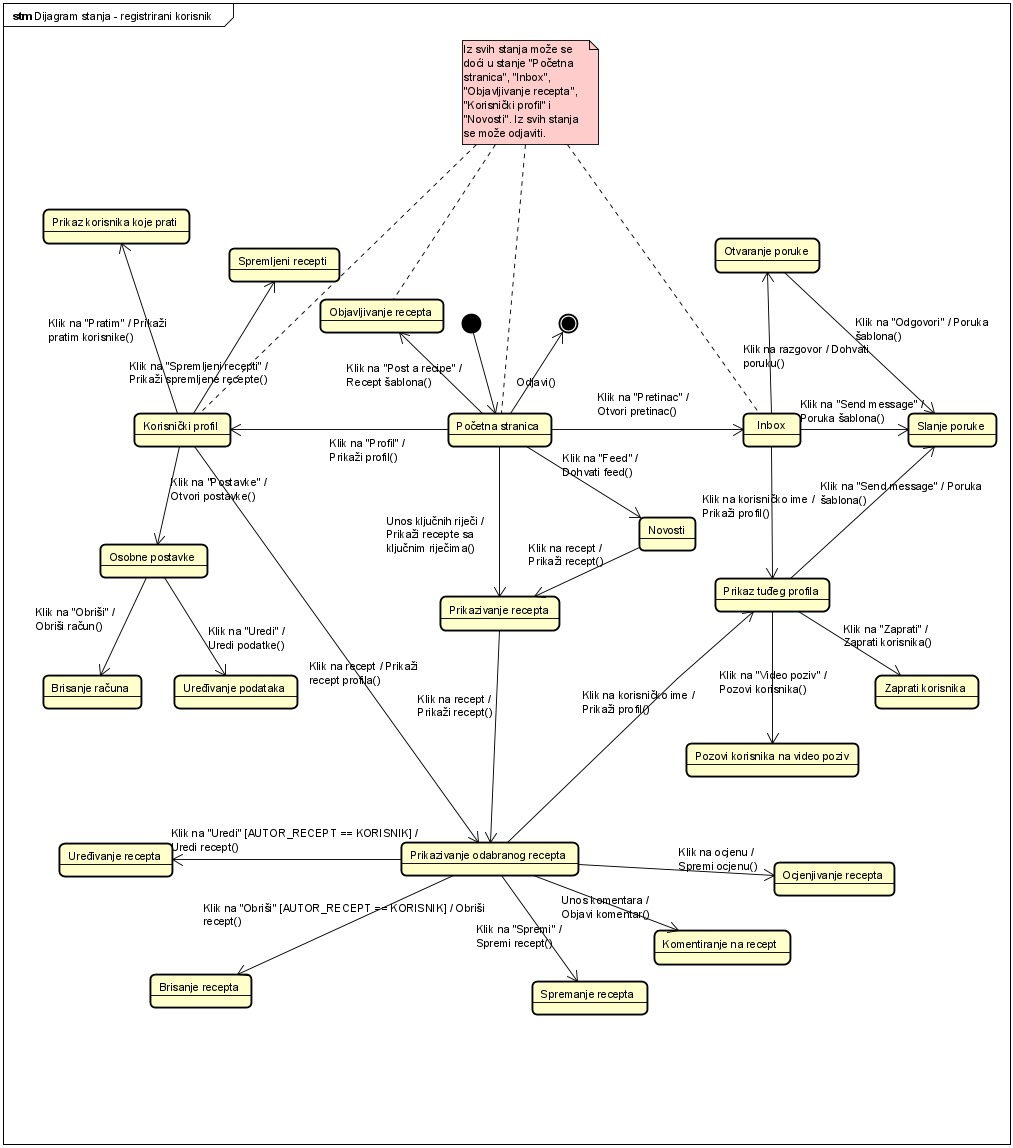
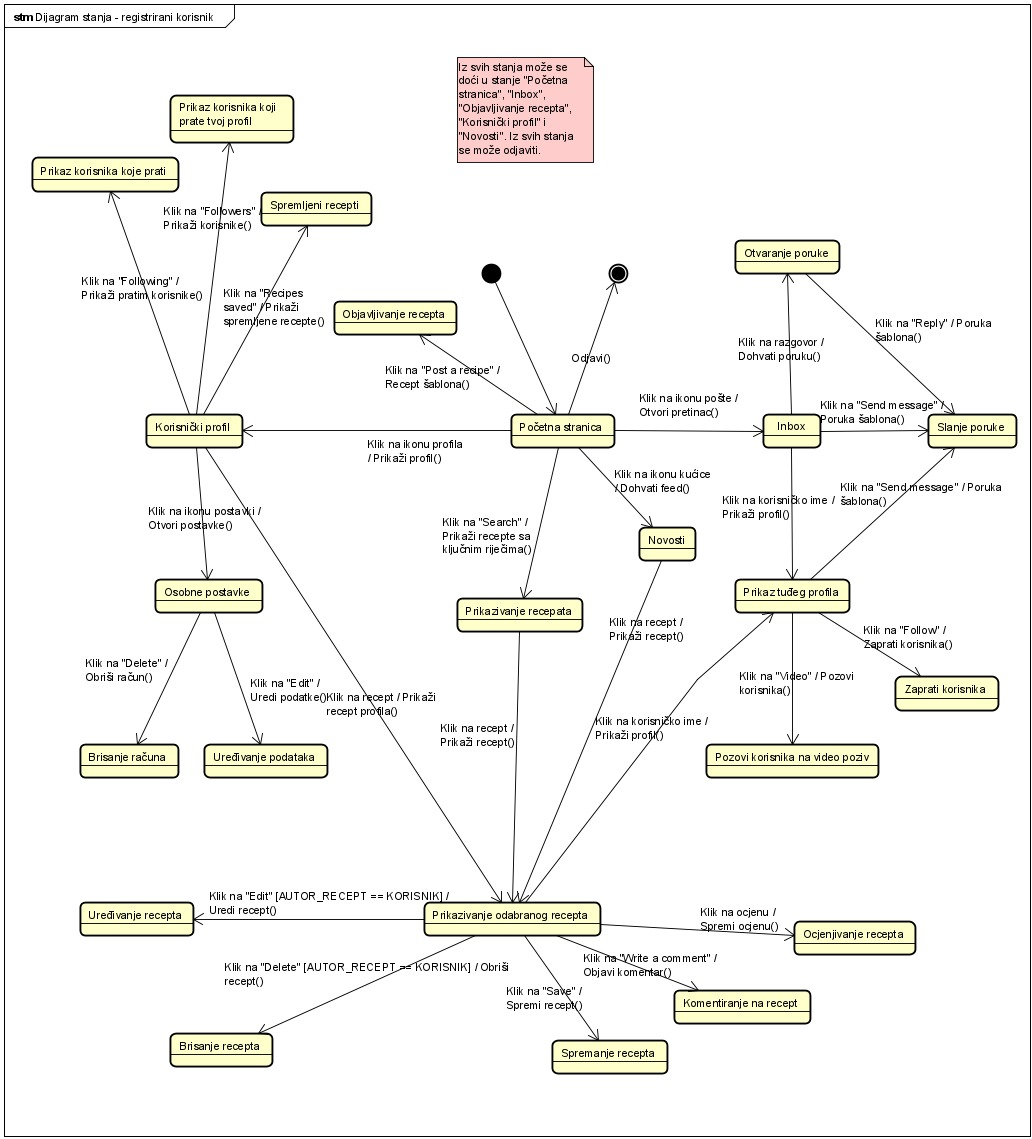
Azuriran dijagram stanja

diff --git a/Dokumentacija/Arhitektura.tex b/Dokumentacija/Arhitektura.tex
@@ -267,7 +267,7 @@
 			% \textbf{\textit{dio 2. revizije}}\\
 			
 			% \textit{Potrebno je priložiti dijagram stanja i opisati ga. Dovoljan je jedan dijagram stanja koji prikazuje \textbf{značajan dio funkcionalnosti} sustava. Na primjer, stanja korisničkog sučelja i tijek korištenja neke ključne funkcionalnosti jesu značajan dio sustava, a registracija i prijava nisu. }
-			Dijagram stanja na slici \ref{fig:Dijagram_stanja} opisuje stanja u kojima se registrirani korisnik može naći i njihove okidače te prijelaze. Nakon uspješne prijave, korisniku se prikazuje početna stranica na kojoj može pretražiti recept pomoću tražilice, pregledati svoj pretinac poruka, pregledati svoj profil, objaviti recept ili pogledati nove recepte koje su objavili korisnici koje prati. Na vlastitom profilu se prikazuju osobni podaci, objavljeni recepti i gumbovi za dodatne mogućnosti. Dodatne funkcionalnosti na stranici profila su opcije za daljnji pregled osobnih postavki, prikaz spremljenih recepata i prikaz korisnika koje prati. Klikom na "Postavke" korisnik može ažurirati svoje podatke ili obrisati svoj račun. Klikom na "Pretinac poruka" prikazuju se izmijenjene poruke. U pretincu se može otvoriti poruka njezinim odabirom te poslati nova poruka, čime se pritiskom gumba otvara šablona za poruku. Odabirom opcije "Objavi recept" otvara se nova stranica na kojoj se nalazi šablona za stvaranje recepta. Upisivanjem ključnih riječi u tražilicu prikaže se stranica s receptima koji se poklapaju s danim opisom. Odabirom recepta otvara se pojedinačna stranica sa samo odabranim receptom. Na stranici pregleda recepta korisnik može ocijeniti, spremiti ili komentirati recept, u slučaju da je korisnik autor prikazanog recepta pojavljuje se opcija uređivanja ili brisanja recepta. Korisnik također može pritisnuti na korisničko ime korisnika koji je objavio recept, time se otvara stranica tuđeg profila. Prikazivanjem tuđeg profila moguće je zapratiti korisnika ili poslati privatnu poruku korisniku, čime se ponovno otvara šablona za poruku. Korisnik uvijek ima mogućnost povratka na početnu stranicu, otvaranja pretinca poruka, pregleda korisničkog profila, pregleda novosti i objavljivanja recepta.
+			Dijagram stanja na slici \ref{fig:Dijagram_stanja} opisuje stanja u kojima se registrirani korisnik može naći i njihove okidače te prijelaze. Nakon uspješne prijave, korisniku se prikazuje početna stranica na kojoj može pretražiti recepte pomoću tražilice, pregledati svoj pretinac poruka, pregledati svoj profil, objaviti recept ili pogledati nove recepte koje su objavili korisnici koje prati. Na vlastitom profilu se prikazuju osobni podaci, objavljeni recepti i gumbovi za dodatne mogućnosti. Dodatne funkcionalnosti na stranici profila su opcije za daljnji pregled osobnih postavki, prikaz spremljenih recepata, prikaz korisnika koje prati te prikaz korisnika koji prate tvoj profil. Klikom na "Postavke" korisnik može ažurirati svoje podatke ili obrisati svoj račun. Klikom na "Pretinac poruka" prikazuju se izmijenjene poruke. U pretincu se može otvoriti poruka njezinim odabirom te poslati nova poruka, čime se pritiskom gumba otvara šablona za poruku. Odabirom opcije "Objavi recept" otvara se nova stranica na kojoj se nalazi šablona za stvaranje recepta. Upisivanjem ključnih riječi u tražilicu prikaže se stranica s receptima koji se poklapaju s danim opisom. Odabirom recepta otvara se pojedinačna stranica sa samo odabranim receptom. Na stranici pregleda recepta korisnik može ocijeniti, spremiti ili komentirati recept, u slučaju da je korisnik autor prikazanog recepta pojavljuje se opcija uređivanja ili brisanja recepta. Korisnik također može pritisnuti na korisničko ime korisnika koji je objavio recept, time se otvara stranica tuđeg profila. Prikazivanjem tuđeg profila moguće je zapratiti korisnika, poslati privatnu poruku korisniku, čime se ponovno otvara šablona za poruku ili pozvati korisnika na video poziv. Korisnik uvijek ima mogućnost povratka na početnu stranicu, otvaranja pretinca poruka, pregleda korisničkog profila, pregleda novosti i objavljivanja recepta.
 			\begin{figure}[H]
 				\includegraphics[scale=0.5]{slike/dijagram_stanja.jpeg} %veličina slike u odnosu na originalnu datoteku i pozicija slike
 				\centering
